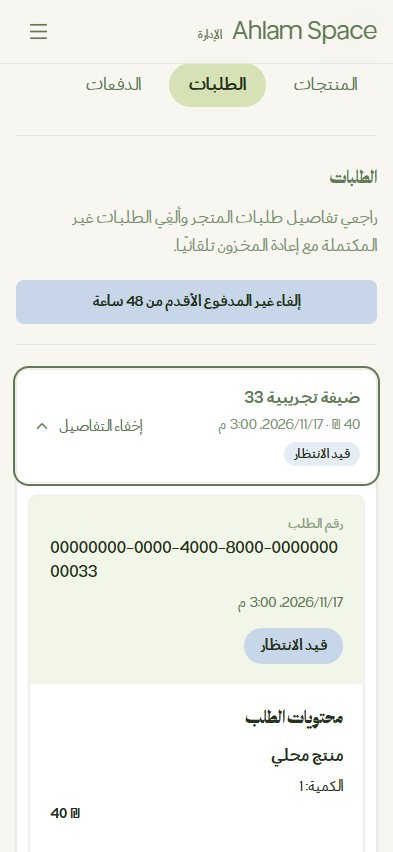
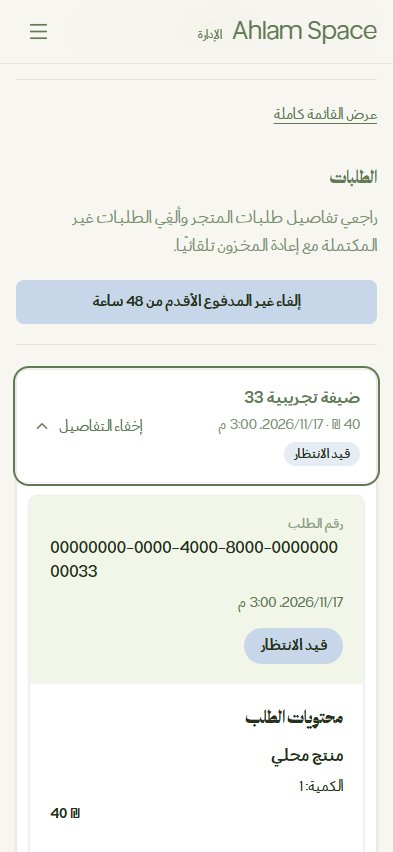
fix(admin): scope notification targets independently of list limits

Changed region(s): [[0.4275, 0.061, 0.6718, 0.1526], [0.7023, 0.0915, 0.9466, 0.1526], [0.2137, 0.0915, 0.3664, 0.1221]]

diff --git a/src/app/(admin)/admin/requests/page.tsx b/src/app/(admin)/admin/requests/page.tsx
@@ -1,3 +1,4 @@
+import Link from 'next/link'
 import NotificationItem from '@/components/admin/notifications/notification-item'
 import { getAdminNotificationCounts } from '@/components/admin/notifications/notification-data'
 import AdminDeleteButton from '@/components/admin/admin-delete-button'
@@ -36,6 +37,7 @@ export default async function AdminRequestsPage({ searchParams }: { searchParams
     .from('session_requests')
     .select('id, full_name, phone, email, message, session_type, created_at, status')
     .order('created_at', { ascending: false })
+    .match(selectedId ? { id: selectedId } : {})
     .returns<SessionRequest[]>()
 
   return (
@@ -44,6 +46,7 @@ export default async function AdminRequestsPage({ searchParams }: { searchParams
         <h1 className="font-serif text-3xl text-[#617A55] sm:text-4xl">طلبات الجلسات الفردية</h1>
         <p className="mt-3 leading-7 text-[#617A55]">متابعة الطلبات والتواصل مع العميلات وتحديث الحالة.</p>
       </header>
+      {selectedId && <Link href="/admin/requests" className="mt-4 inline-flex min-h-11 items-center text-sm text-[#617A55] underline underline-offset-4">عرض القائمة كاملة</Link>}
       {error && <p role="alert" className="mt-6 rounded-lg bg-[#C7D6E8]/50 p-5 text-[#617A55]">تعذر تحميل طلبات الجلسات. تحققي من الاتصال وصلاحيات عرض الطلبات.</p>}
       {!error && !data?.length && <p className="mt-6 bg-[#D6E2B6]/40 p-6 text-[#617A55]">لا توجد طلبات جلسات بعد.</p>}
       {!error && data && (

diff --git a/src/components/admin/sections/domain-payments.tsx b/src/components/admin/sections/domain-payments.tsx
@@ -115,11 +115,13 @@ export default async function DomainPayments({ kind, filter, selectedId }: {
           'id, user_id, created_at, payment_status, class_sessions(classes(name, price))'
         )
         .order('created_at', { ascending: false })
+        .match(selectedId && activeTab === 'booking' ? { id: selectedId } : {})
         .returns<BookingRow[]>(),
       admin
         .from('course_purchases')
         .select('id, user_id, created_at, status, courses(title, price)')
         .order('created_at', { ascending: false })
+        .match(selectedId && activeTab === 'course' ? { id: selectedId } : {})
         .returns<CourseRow[]>(),
       admin
         .from('orders')
@@ -127,6 +129,7 @@ export default async function DomainPayments({ kind, filter, selectedId }: {
           'id, user_id, created_at, status, total, guest_name, guest_phone, guest_email, order_items(quantity, product_variants(products(name)))'
         )
         .order('created_at', { ascending: false })
+        .match(selectedId && activeTab === 'order' ? { id: selectedId } : {})
         .returns<OrderRow[]>(),
       admin
         .from('payments')

diff --git a/src/components/admin/sections/section-page.tsx b/src/components/admin/sections/section-page.tsx
@@ -17,7 +17,7 @@ const sections: Record<AdminSection, { title: string; href: string; tabs: { id: 
   ] },
 }
 
-export default async function AdminSectionPage({ section, activeTab, children }: { section: AdminSection; activeTab: string; children: ReactNode }) {
+export default async function AdminSectionPage({ section, activeTab, itemOpen, children }: { section: AdminSection; activeTab: string; itemOpen?: boolean; children: ReactNode }) {
   const definition = sections[section]
   const { counts } = await getAdminNotificationCounts()
   return <main className="mx-auto min-w-0 max-w-7xl px-4 py-8 sm:px-6 lg:px-8">
@@ -29,6 +29,7 @@ export default async function AdminSectionPage({ section, activeTab, children }:
         </Link>)}
       </nav>
     </header>
+    {itemOpen && <Link href={`${definition.href}?tab=${activeTab}`} className="mt-3 inline-flex min-h-11 items-center text-sm text-[#617A55] underline underline-offset-4">عرض القائمة كاملة</Link>}
     <div className="mt-5 min-w-0">{children}</div>
   </main>
 }

diff --git a/src/app/(admin)/admin/products/page.tsx b/src/app/(admin)/admin/products/page.tsx
@@ -8,7 +8,7 @@ export default async function AdminProductsPage({ searchParams }: {
 }) {
   const params = await searchParams
   const tab = params.tab === 'orders' || params.tab === 'payments' ? params.tab : 'products'
-  return <AdminSectionPage section="shop" activeTab={tab}>
+  return <AdminSectionPage section="shop" activeTab={tab} itemOpen={Boolean(params.item)}>
     {tab === 'orders' ? <OrdersContent selectedId={params.item} /> : tab === 'payments'
       ? <DomainPayments kind="order" filter={params.filter} selectedId={params.item} /> : <ProductsContent />}
   </AdminSectionPage>

diff --git a/src/app/(admin)/admin/classes/page.tsx b/src/app/(admin)/admin/classes/page.tsx
@@ -7,7 +7,7 @@ export default async function AdminClassesPage({ searchParams }: {
 }) {
   const params = await searchParams
   const tab = params.tab === 'payments' || params.tab === 'types' ? params.tab : 'sessions'
-  return <AdminSectionPage section="classes" activeTab={tab}>
+  return <AdminSectionPage section="classes" activeTab={tab} itemOpen={Boolean(params.item)}>
     {tab === 'payments'
       ? <DomainPayments kind="booking" filter={params.filter} selectedId={params.item} />
       : <ClassesContent searchParams={Promise.resolve(params)} />}

diff --git a/src/app/(admin)/admin/courses/page.tsx b/src/app/(admin)/admin/courses/page.tsx
@@ -7,7 +7,7 @@ export default async function AdminCoursesPage({ searchParams }: {
 }) {
   const params = await searchParams
   const tab = params.tab === 'payments' ? 'payments' : 'content'
-  return <AdminSectionPage section="courses" activeTab={tab}>
+  return <AdminSectionPage section="courses" activeTab={tab} itemOpen={Boolean(params.item)}>
     {tab === 'payments' ? <DomainPayments kind="course" filter={params.filter} selectedId={params.item} /> : <CoursesContent />}
   </AdminSectionPage>
 }

diff --git a/src/components/admin/sections/orders-content.tsx b/src/components/admin/sections/orders-content.tsx
@@ -73,6 +73,7 @@ export default async function OrdersContent({ selectedId }: { selectedId?: strin
       'id, user_id, created_at, status, fulfillment_method, payment_method, delivery_address, guest_name, guest_phone, guest_email, total, order_items(id, quantity, unit_price, product_variants(size, color, products(name)))'
     )
     .order('created_at', { ascending: false })
+    .match(selectedId ? { id: selectedId } : {})
     .returns<OrderRow[]>()
 
   const userIds = Array.from(

diff --git a/src/components/admin/sections/_review/README.md b/src/components/admin/sections/_review/README.md
@@ -1,4 +1,4 @@
-# Admin domain sections (PR 1)
+# Admin domain sections (PR 1)
 
 ## Navigation and routes
 
@@ -15,11 +15,11 @@ The existing sidebar configuration remains the single source of navigation group
 
 Legacy `/admin/payments` redirects to Classes > Payments. Legacy `/admin/orders` redirects to Shop > Orders. Existing home cards now link to domain tabs; the state-based home/mobile redesign is intentionally deferred to PR 2.
 
-The former server page bodies are reused in `classes-content`, `courses-content`, `products-content`, `orders-content` and `domain-payments`. Existing query shapes, payment confirmation/dialog/RPC arguments, stock/cancellation controls, class creation and recurrence logic are preserved. Class creation is placed under Types. No booking/payment RPC or RLS change.
+The former server page bodies are reused in `classes-content`, `courses-content`, `products-content`, `orders-content` and `domain-payments`. Existing query projections, payment confirmation/dialog/RPC arguments, stock/cancellation controls, class creation and recurrence logic are preserved. Class creation is placed under Types. No booking/payment RPC or RLS change.
 
 ## Notifications / manual SQL review
 
-Review **[supabase/admin-notification-seen.sql](../../../../../..//supabase/admin-notification-seen.sql)**. It has NOT been executed. It only adds nullable `seen_at` and an index for unseen counts; no policy/grant/RPC changes.
+Review **[supabase/admin-notification-seen.sql](../../../../../supabase/admin-notification-seen.sql)**. It has NOT been executed. It only adds nullable `seen_at` and an index for unseen counts; no policy/grant/RPC changes.
 
 Queue retention audit: `claim_admin_notifications` sets `sent_at`/attempts; failed sends reset `sent_at`. Successfully sent and skipped rows stay in the queue. This PR does not alter cron, sending, retry behavior or retention. Existing manual cleanup SQL scripts remain unchanged.
 
@@ -33,14 +33,14 @@ Event mapping:
 - `session_request` -> Private sessions.
 - `trip_application` -> Trips; the application ID resolves to its parent trip on the guarded server.
 
-A list/section visit does not mark any row. Explicitly expanding one item (or following its email deep link) calls the admin-checked action for that item only. Counts refresh after success; zero badges disappear. Collapsing/reopening permits retry after a failed write. Payment state never derives from `seen_at`.
+Email targets are fetched by their exact ID, independently of list row limits, with a link back to the full list. A list/section visit does not mark any row. Explicitly expanding one item (or following its email deep link) calls the admin-checked action for that item only. Counts refresh after success; zero badges disappear. Collapsing/reopening permits retry after a failed write. Payment state never derives from `seen_at`.
 
 Before the SQL runs, missing-column errors hide badges and disable seen writes while content, details and existing actions remain available. Migration does not backfill history: old queue rows start unseen. `seen_at` is shared across admins as requested, not a per-admin read receipt. Old queue records whose referenced item was deleted may need owner-reviewed cleanup; this PR does not silently discard them.
 
 ## Validation
 
-- Lint and explicit TypeScript checks passed.
-- Production compilation/type generation passed. Next 16.4.3 also emits its existing security-version upgrade advisory; dependency upgrades are outside this PR and must be reviewed separately. See PR check results for the final CLI build status.
+- `npm run lint`, `npx tsc --noEmit` and the final `npm run build` passed after rebasing onto current main.
+- Next 16.4.3 initially stopped the build with its security-version upgrade reminder; the final retry exited 0 while still reporting the advisory. A security upgrade is recommended and must be reviewed separately; dependencies are unchanged in this PR.
 - Playwright/Edge against the production build and local-only auth/data fixtures: 1440x900, 1024x768, 768x1024, 393x852 in Arabic/English layout; supplemental 360px phone check. No horizontal page overflow or client errors.
 - All five event kinds: sent rows still count as unseen, exact one-item marking, siblings untouched, zero badges hidden, specific email/item routes open the right item.
 - Replayed seen action POSTs were rejected for anonymous/non-admin sessions and invalid kind/UUID, with zero queue updates.
